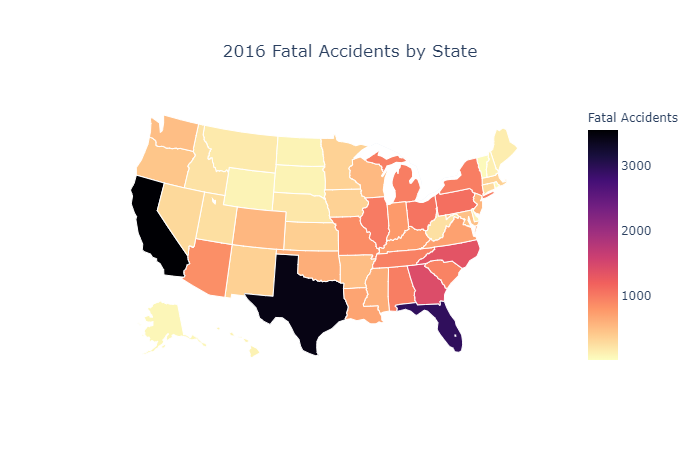
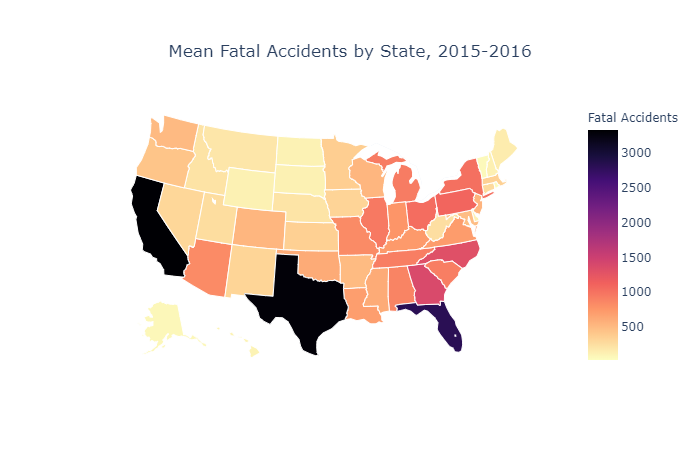
Updated choropleth maps for state data. Added state ranks for each feature and plotted most important features vs. accidents_per_100k

diff --git a/states/data_exploration.py b/states/data_exploration.py
@@ -1,34 +1,45 @@
 #!/usr/bin/env python3
 
 import pandas as pd
+import matplotlib.pyplot as plt
 import seaborn as sns
 import plotly.graph_objects as go
 
 sns.set()
+pd.set_option('display.max_rows', None)
+pd.set_option('display.max_columns', None)
 
-year = 2016
-path = '../data/states'
 
-accident_fatality_data = pd.read_csv(f'{path}/accident_fatalities_{year}.csv', header=0, index_col='state_name')
-population_data = pd.read_excel(f'{path}/state_populations.xlsx', header=0, index_col='state_name')
+def main():
+    path = '../data/states'
+    data = pd.read_csv(f'{path}/state_mean_accident_data.csv', header=0)
 
-us_state_codes = {'Alabama': 'AL', 'Alaska': 'AK', 'Arizona': 'AZ', 'Arkansas': 'AR', 'California': 'CA',
-                  'Colorado': 'CO', 'Connecticut': 'CT', 'Delaware': 'DE', 'Florida': 'FL', 'Georgia': 'GA',
-                  'Hawaii': 'HI', 'Idaho': 'ID', 'Illinois': 'IL', 'Indiana': 'IN', 'Iowa': 'IA',
-                  'Kansas': 'KS', 'Kentucky': 'KY', 'Louisiana': 'LA', 'Maine': 'ME', 'Maryland': 'MD',
-                  'Massachusetts': 'MA', 'Michigan': 'MI', 'Minnesota': 'MN', 'Mississippi': 'MS', 'Missouri': 'MO',
-                  'Montana': 'MT', 'Nebraska': 'NE', 'Nevada': 'NV', 'New Hampshire': 'NH', 'New Jersey': 'NJ',
-                  'New Mexico': 'NM', 'New York': 'NY', 'North Carolina': 'NC', 'North Dakota': 'ND', 'Ohio': 'OH',
-                  'Oklahoma': 'OK', 'Oregon': 'OR', 'Pennsylvania': 'PA', 'Rhode Island': 'RI', 'South Carolina': 'SC',
-                  'South Dakota': 'SD', 'Tennessee': 'TN', 'Texas': 'TX', 'Utah': 'UT', 'Vermont': 'VT',
-                  'Virginia': 'VA', 'Washington': 'WA', 'West Virginia': 'WV', 'Wisconsin': 'WI', 'Wyoming': 'WY',
-                  'District of Columbia': 'DC', 'Puerto Rico': 'PR'}
+    choropleth_title = 'Mean Fatal Accidents by State, 2015-2016'
+    colorbar_title = 'Fatal Accidents'
+    choropleth_map(data['state_code'],
+                   data['accidents'],
+                   choropleth_title, colorbar_title)
 
-accident_fatality_data['state_code'] = accident_fatality_data.index.map(us_state_codes)
-population_data['state_code'] = population_data.index.map(us_state_codes)
+    choropleth_title = 'Mean Fatal Accidents by State per 100k Population, 2015-2016'
+    colorbar_title = 'Fatal Accidents per 100k'
+    choropleth_map(data['state_code'],
+                   data['accidents_per_100k'],
+                   choropleth_title, colorbar_title)
 
-accident_fatality_data = accident_fatality_data.join(population_data[year])
-accident_fatality_data['accidents_per_100k'] = (accident_fatality_data['accidents'] / accident_fatality_data[year]) * 10**5
+    data.set_index(['state_name', 'state_code', 'state_number'], inplace=True)
+    rank_data = data.rank(ascending=False)
+
+    print(rank_data[rank_data['accidents_per_100k'] <= 5].sort_values('accidents_per_100k'))
+
+    ax = data.plot.scatter(x='land_use_urban', y='accidents_per_100k',
+                           figsize=(16, 8), s=120, linewidth=0)
+
+    for k, v in data.iterrows():
+        ax.annotate(k[1], (v['land_use_urban'], v['accidents_per_100k']),
+                    xytext=(10, -5), textcoords='offset points',
+                    family='sans-serif', fontsize=14, color='darkslategrey')
+
+    plt.show()
 
 
 def choropleth_map(location_series, data_series, title, legend_title):
@@ -64,15 +75,5 @@ def choropleth_map(location_series, data_series, title, legend_title):
     # fig.write_image('visualizations/choropleth_accidents_by_state.png')
 
 
-choropleth_title = '2016 Fatal Accidents by State'
-colorbar_title = 'Fatal Accidents'
-choropleth_map(accident_fatality_data['state_code'],
-               accident_fatality_data['accidents'],
-               choropleth_title, colorbar_title)
-
-
-choropleth_title = '2016 Fatal Accidents by State per 100k Population'
-colorbar_title = 'Fatal Accidents per 100k'
-choropleth_map(accident_fatality_data['state_code'],
-               accident_fatality_data['accidents_per_100k'],
-               choropleth_title, colorbar_title)
+if __name__ == '__main__':
+    main()
